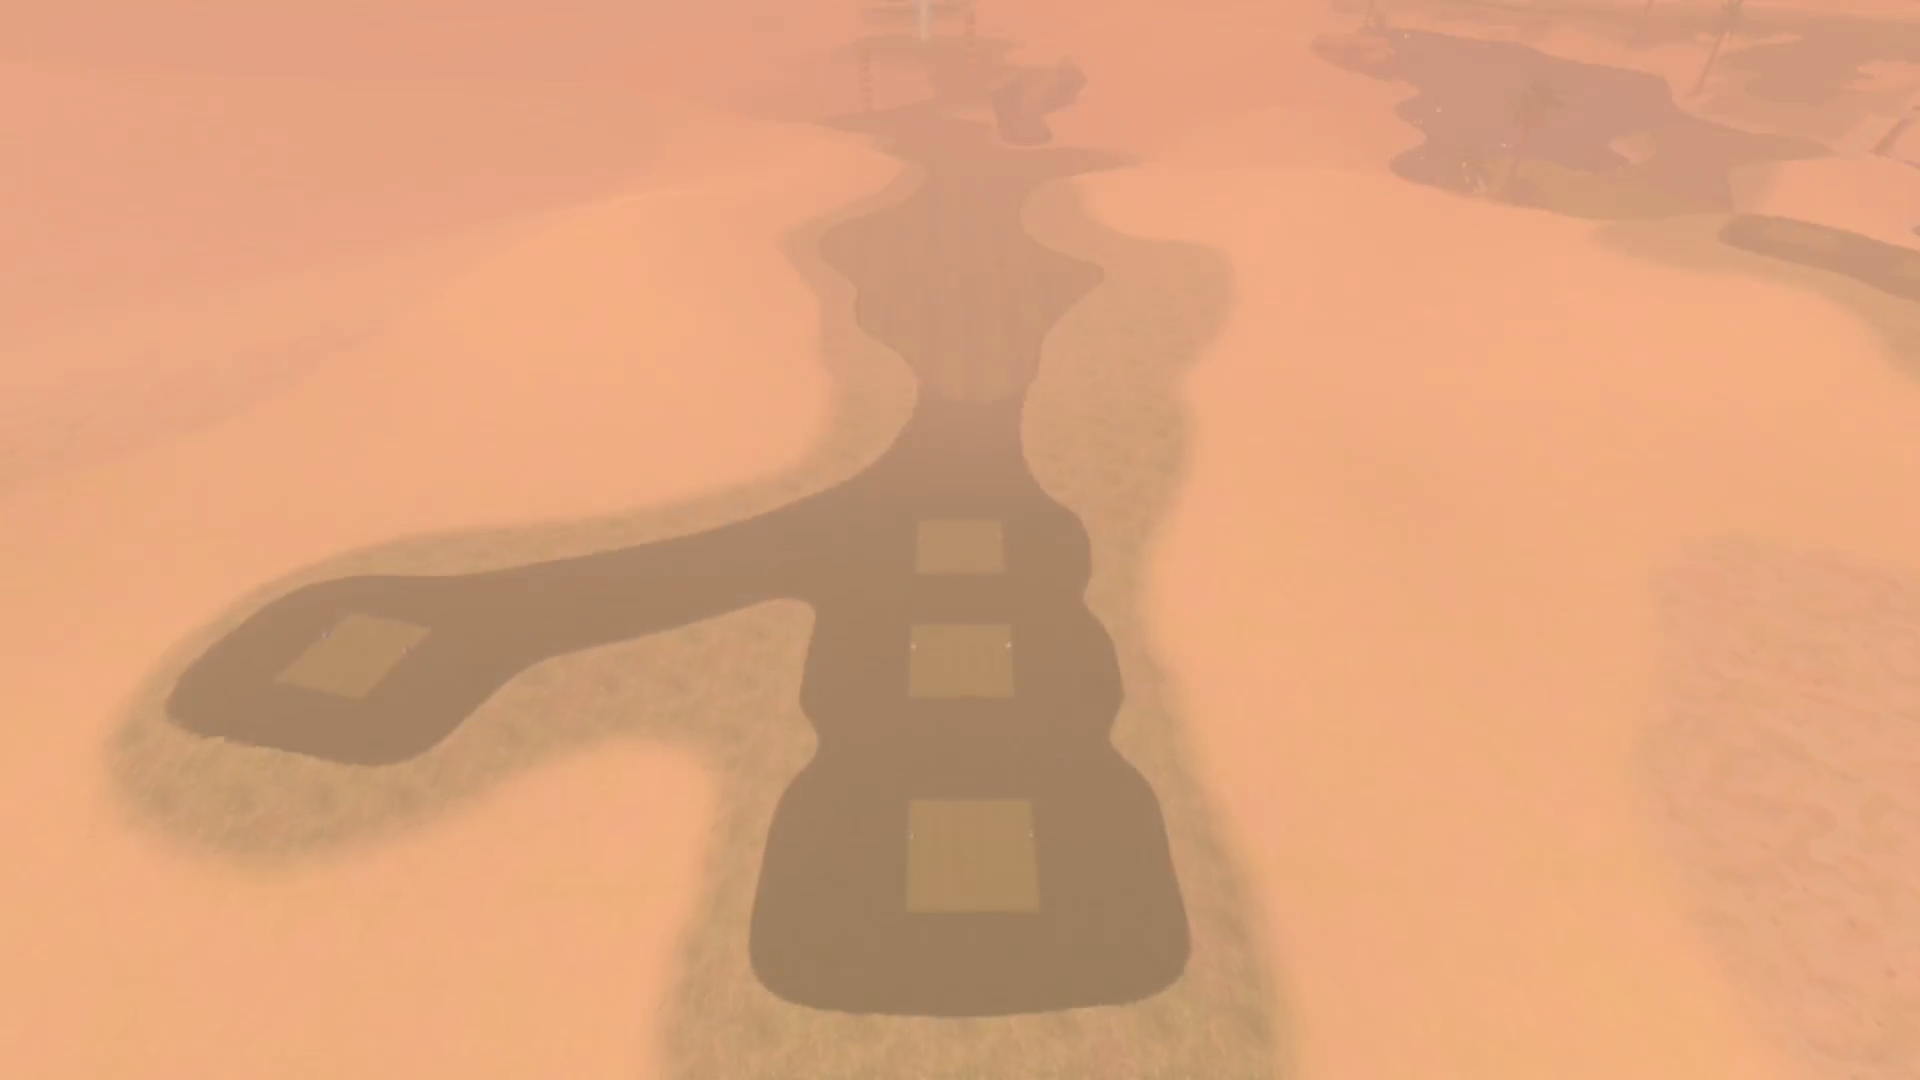
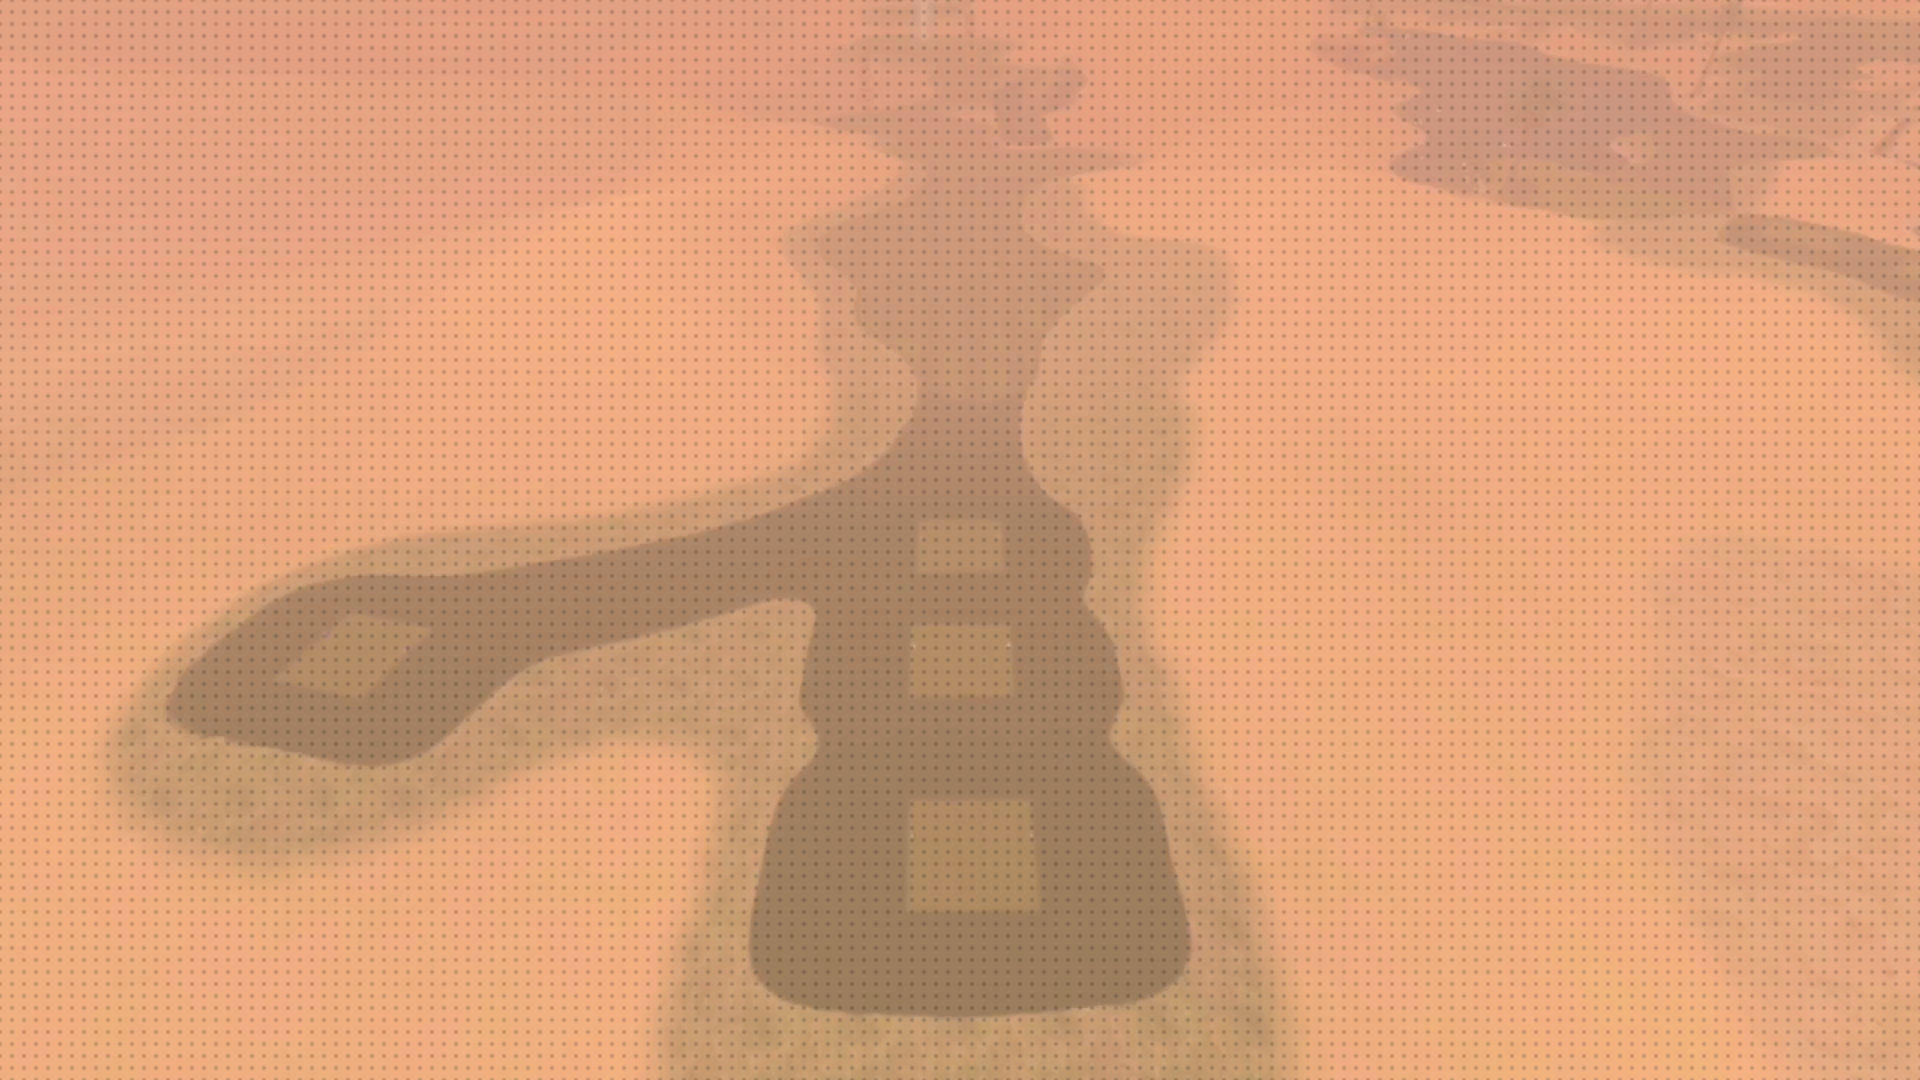
Fixes & Credits added
Added: Credits at the very bottom
Fixed: Dots stopped displaying after a certain point, now they display properly. They also no longer scale alongside the page zoom as they are burned into the images now.

diff --git a/index.html b/index.html
@@ -43,30 +43,28 @@
 		<span> Javascript is required for MPO to work. <br> MPO does not save or send any information anywhere. <br> It only saves stats & settings in your browser which no other website can access. </span>
 	</noscript>
 
-	<div id="container">
+	<div id="contentContainer">
+		<div id="content">
 
-		<div id="courseName">Rookie Course</div>
+			<div id="courseName">Rookie Course</div>
 
-		<div id="flexContainer">
-			<div id="optionsContainer">
-				<span id="button" onclick="setRandomCourse()">New course! <br /> <img id="randomImg" src="img/random.png"> </span>
-			</div>
-		</div>
-
-		<!--div class="outer">
-			<div class="middle">
-				<div class="inner">
-					<div id="optionsContainer">
-						<span id="button" onclick="setRandomCourse()">New course! <br /> <img id="randomImg" src="img/random.png"> </span>
-					</div>
+			<div id="flexContainer">
+				<div id="optionsContainer">
+					<span id="button" onclick="setRandomCourse()">New course! <br /> <img id="randomImg" src="img/random.png"> </span>
 				</div>
 			</div>
-		</div-->
 
-		<!--div id="courseImgContainer">
-			<img id="courseImg" src="img/1-Rookie_Course.png">
-		</div-->
+			<!--div id="courseImgContainer">
+				<img id="courseImg" src="img/1-Rookie_Course.png">
+			</div-->
 
+		</div>
+
+		<div id="credits">
+			All characters, products and company names are trademarks™ or registered® trademarks of their respective holders. Use of them does not imply any affiliation with or endorsement by them. <br />
+			Favicon is official art owned by Nintendo, found on mariowiki.com. Other media is created by or inspired by offcially published media by Nintendo. <br />
+			Anything that's not directly credited is either owned by Nintendo or made by a code contributor. Code and list of it's contributors is found publically on github.com.
+		</div>
 	</div>
 
 	<style>
@@ -89,7 +87,16 @@
 				background-size: cover;
 		}
 
-		#container {
+		#contentContainer {
+			height: 100%;
+			width: 100%;
+
+			display: flex;
+			flex-direction: column;
+			justify-content: space-between;
+		}
+
+		#content {
 			display: flex;
 			flex-direction: column;
 
@@ -98,8 +105,6 @@
 			max-height: 1000px;
 
 			text-align: center;
-
-			background-image: url(img/dots.png);
 		}
 
 		#courseName {
@@ -154,12 +159,26 @@
 			height: 300px;
 		}
 
+		#credits {
+			width: 100%;
+			margin-bottom: 2px;
+
+			font-family: arial;
+			font-size: 0.5rem;
+			color: #fff;
+			text-align: center;
+			text-shadow: 3px 3px 4px #202020;
+		}
+
 		@media only screen and (hover: none) and (pointer: coarse) {
 			#courseName {
 				font-size: 5.5rem;
 			}
 			#button {
 				font-size: 3rem;
+			}
+			#credits {
+				font-size: 1.3rem;
 			}
 		}
 
